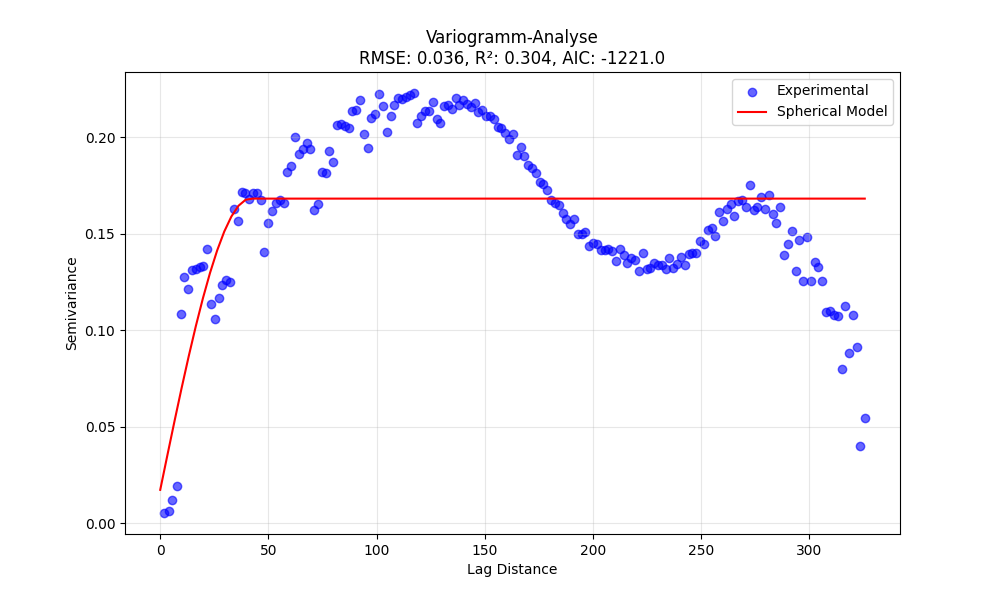
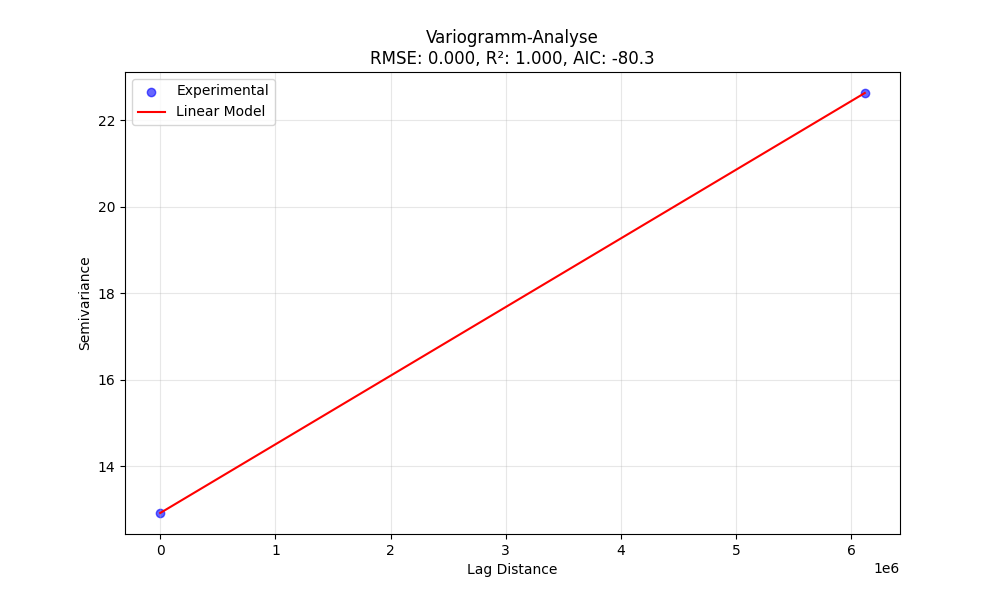
#22 Null/None etc Werte Warnung wird ausgegeben

diff --git a/i_plugin.py b/i_plugin.py
@@ -630,8 +630,9 @@ class IPlugIn:
                 continue
                 
             point = geom.asPoint()
-            value = feature.attribute(field_name)
-            
+            # Nutze get_field_value für robuste Wert-Erkennung (QVariant/NULL/None)
+            value = self.get_field_value(feature, field_name)
+        
             # Wenn boundary_layer vorhanden, prüfe ob der Punkt in irgendeiner Parzelle liegt
             if boundary_layer:
                 point_geom = QgsGeometry.fromPointXY(point)
@@ -642,12 +643,16 @@ class IPlugIn:
                         break
                 if not in_boundary:
                     continue
-            
+        
             # Punkt hinzufügen wenn er valide ist
-            if value is not None:
-                x.append(point.x())
-                y.append(point.y())
-                z.append(float(value))
+            if value is None:
+                msg = f"Ungültiger Wert (NULL/QVariant) im Feld '{field_name}' für Feature-ID {feature.id()}. Bitte bereinigen Sie Ihre Daten."
+                QgsMessageLog.logMessage(msg, "I-PlugIn", Qgis.Critical)
+                QMessageBox.critical(None, "Ungültige Werte gefunden", msg)
+                raise ValueError(msg)
+            x.append(point.x())
+            y.append(point.y())
+            z.append(float(value))
         
         # Convert lists to numpy arrays
         if len(x) > 0:
@@ -822,7 +827,22 @@ class IPlugIn:
                 - plot_path: Pfad zur Variogramm-Visualisierung
         """
         try:
-            # Validiere Eingabedaten
+            # Prüfe auf ungültige Werte (None, QVariant, NaN) und breche ggf. mit Fehlermeldung ab
+            from qgis.PyQt.QtCore import QVariant
+            for xi, yi, zi in zip(x, y, z):
+                if xi is None or yi is None or zi is None:
+                    raise ValueError("Die Daten enthalten ungültige Werte (NULL/leer). Bitte bereinigen Sie Ihre Daten.")
+                if isinstance(xi, QVariant) and xi.isNull():
+                    raise ValueError("Die Daten enthalten ungültige Werte (QVariant/leer). Bitte bereinigen Sie Ihre Daten.")
+                if isinstance(yi, QVariant) and yi.isNull():
+                    raise ValueError("Die Daten enthalten ungültige Werte (QVariant/leer). Bitte bereinigen Sie Ihre Daten.")
+                if isinstance(zi, QVariant) and zi.isNull():
+                    raise ValueError("Die Daten enthalten ungültige Werte (QVariant/leer). Bitte bereinigen Sie Ihre Daten.")
+                try:
+                    if np.isnan(float(xi)) or np.isnan(float(yi)) or np.isnan(float(zi)):
+                        raise ValueError("Die Daten enthalten ungültige Werte (NaN). Bitte bereinigen Sie Ihre Daten.")
+                except Exception:
+                    raise ValueError("Die Daten enthalten ungültige Werte (nicht numerisch). Bitte bereinigen Sie Ihre Daten.")
             if len(x) < 30:
                 raise ValueError("Zu wenige Datenpunkte für eine stabile Variogramm-Analyse (min. 30 benötigt)")
             

diff --git a/i_plugin_dialog.py b/i_plugin_dialog.py
@@ -491,16 +491,31 @@ class IPlugInDialog(QtWidgets.QDialog, FORM_CLASS):
             )
             return False
 
-        # Check for zero values in the selected field
+        # Check for zero values and NULLs in the selected field
         has_zero = False
+        has_null = False
+        from qgis.PyQt.QtCore import QVariant
         for feature in input_layer.getFeatures():
             value = feature[field]
+            # Prüfe auf echte Nullwerte und auf QVariant/None
+            if value is None or (isinstance(value, QVariant) and value.isNull()):
+                has_null = True
+                break
             try:
-                if value is not None and float(value) == 0:
+                if float(value) == 0:
                     has_zero = True
                     break
             except Exception:
-                continue
+                # Falls ein Wert nicht konvertierbar ist, als ungültig behandeln
+                has_null = True
+                break
+        if has_null:
+            QMessageBox.warning(
+                self,
+                "Warnung",
+                "Daten enthalten leere oder ungültige Werte (NULLs). Die Interpolation kann dies nicht verarbeiten. Bitte filtern."
+            )
+            return False
         if has_zero:
             QMessageBox.warning(
                 self,
